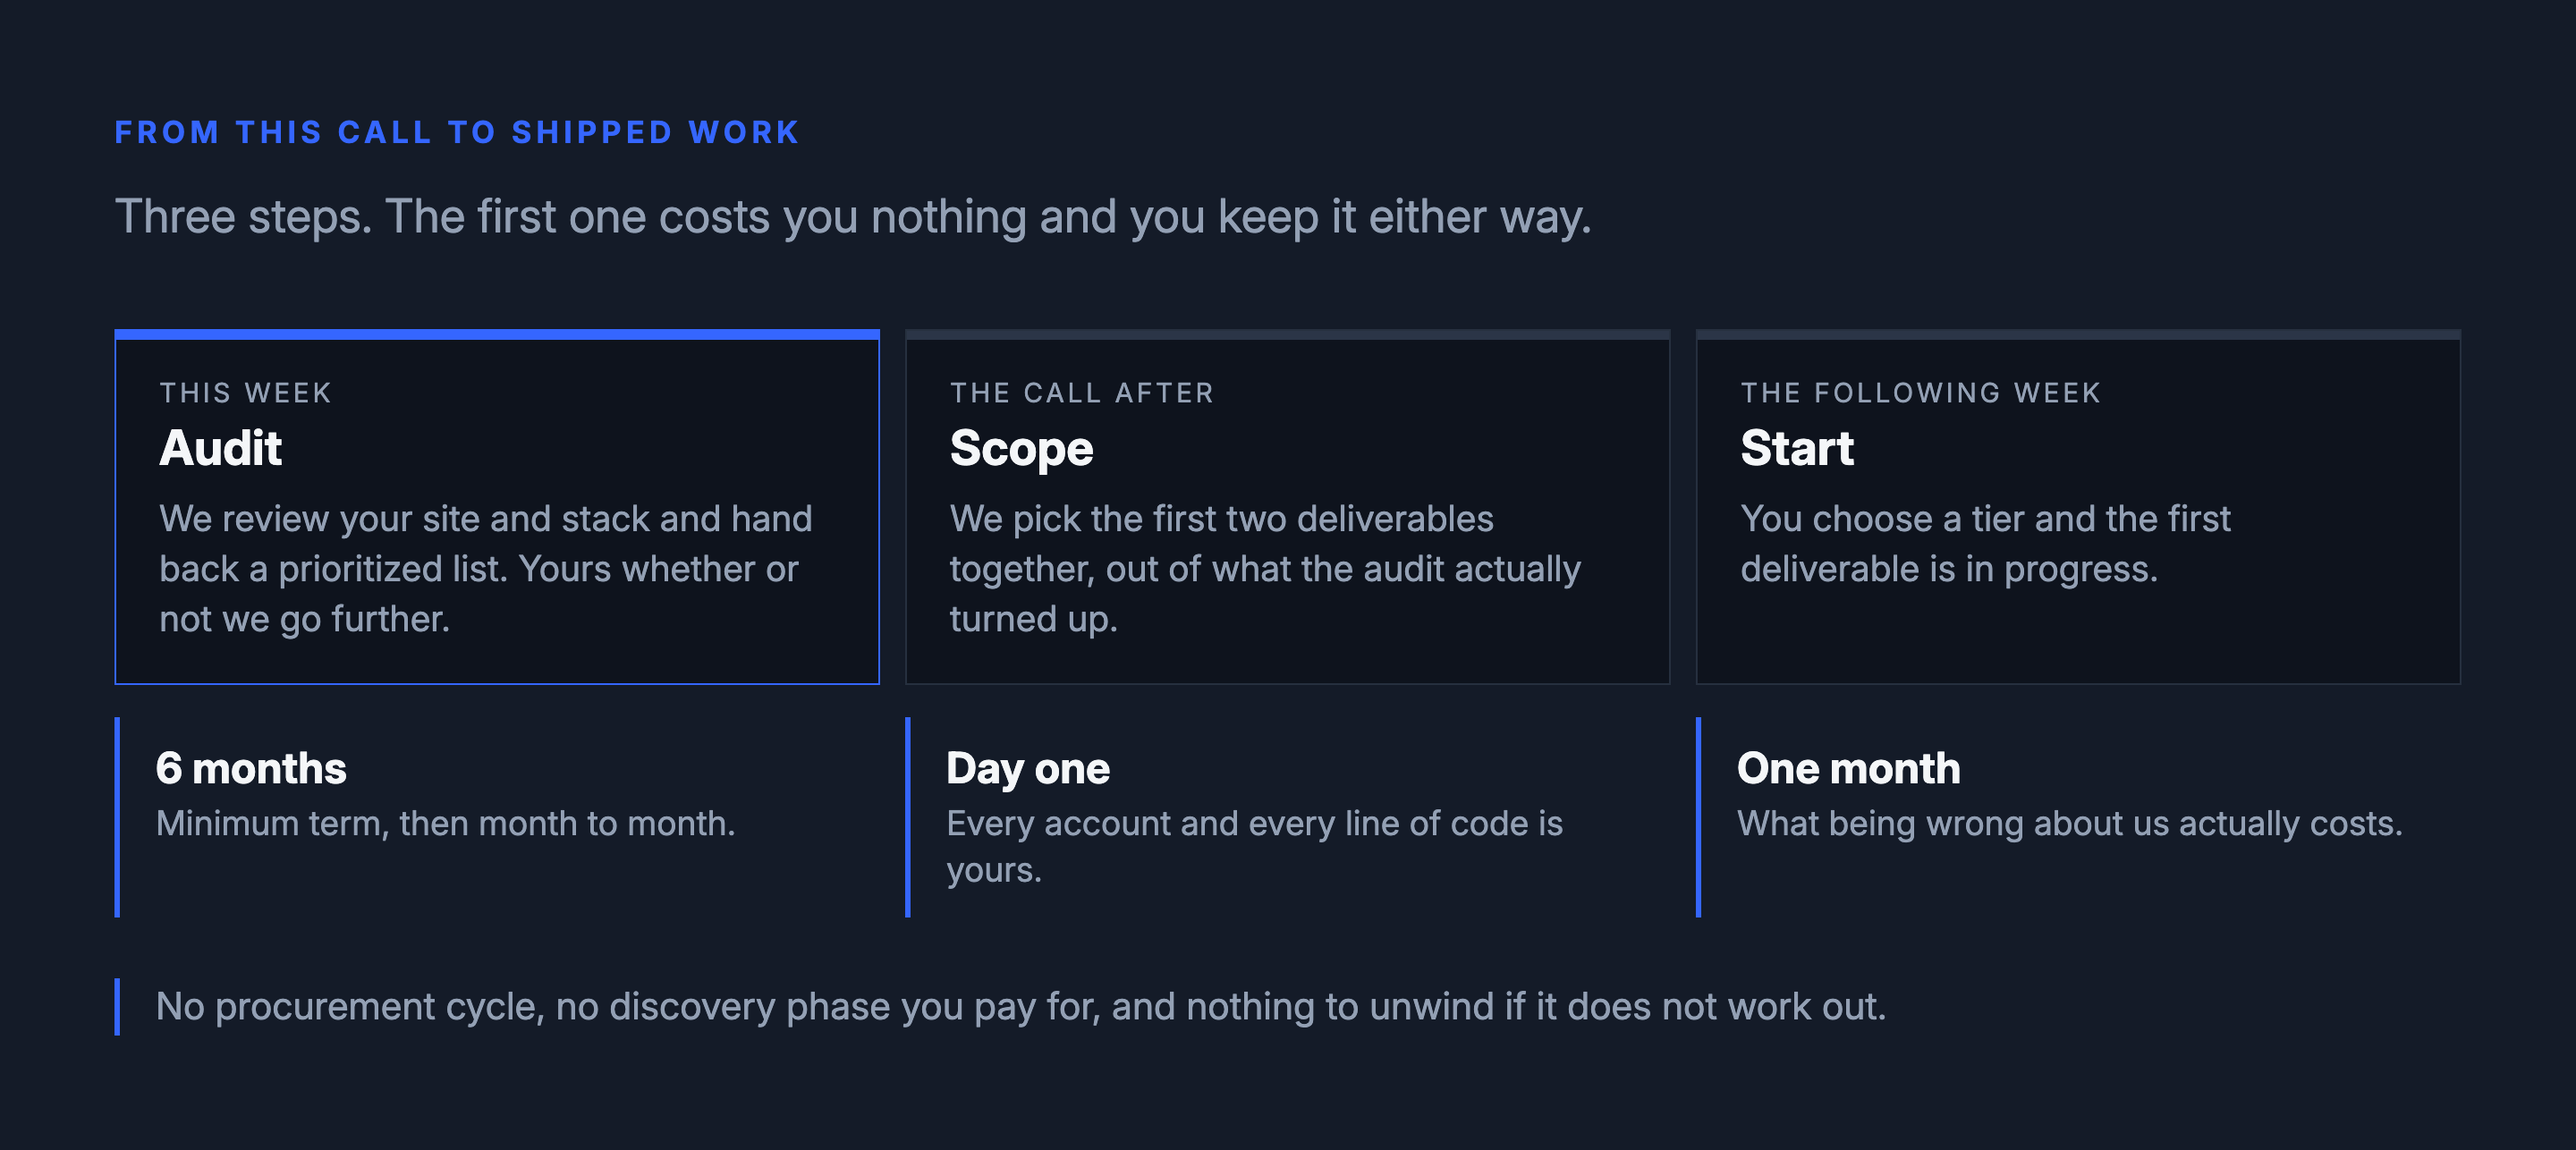
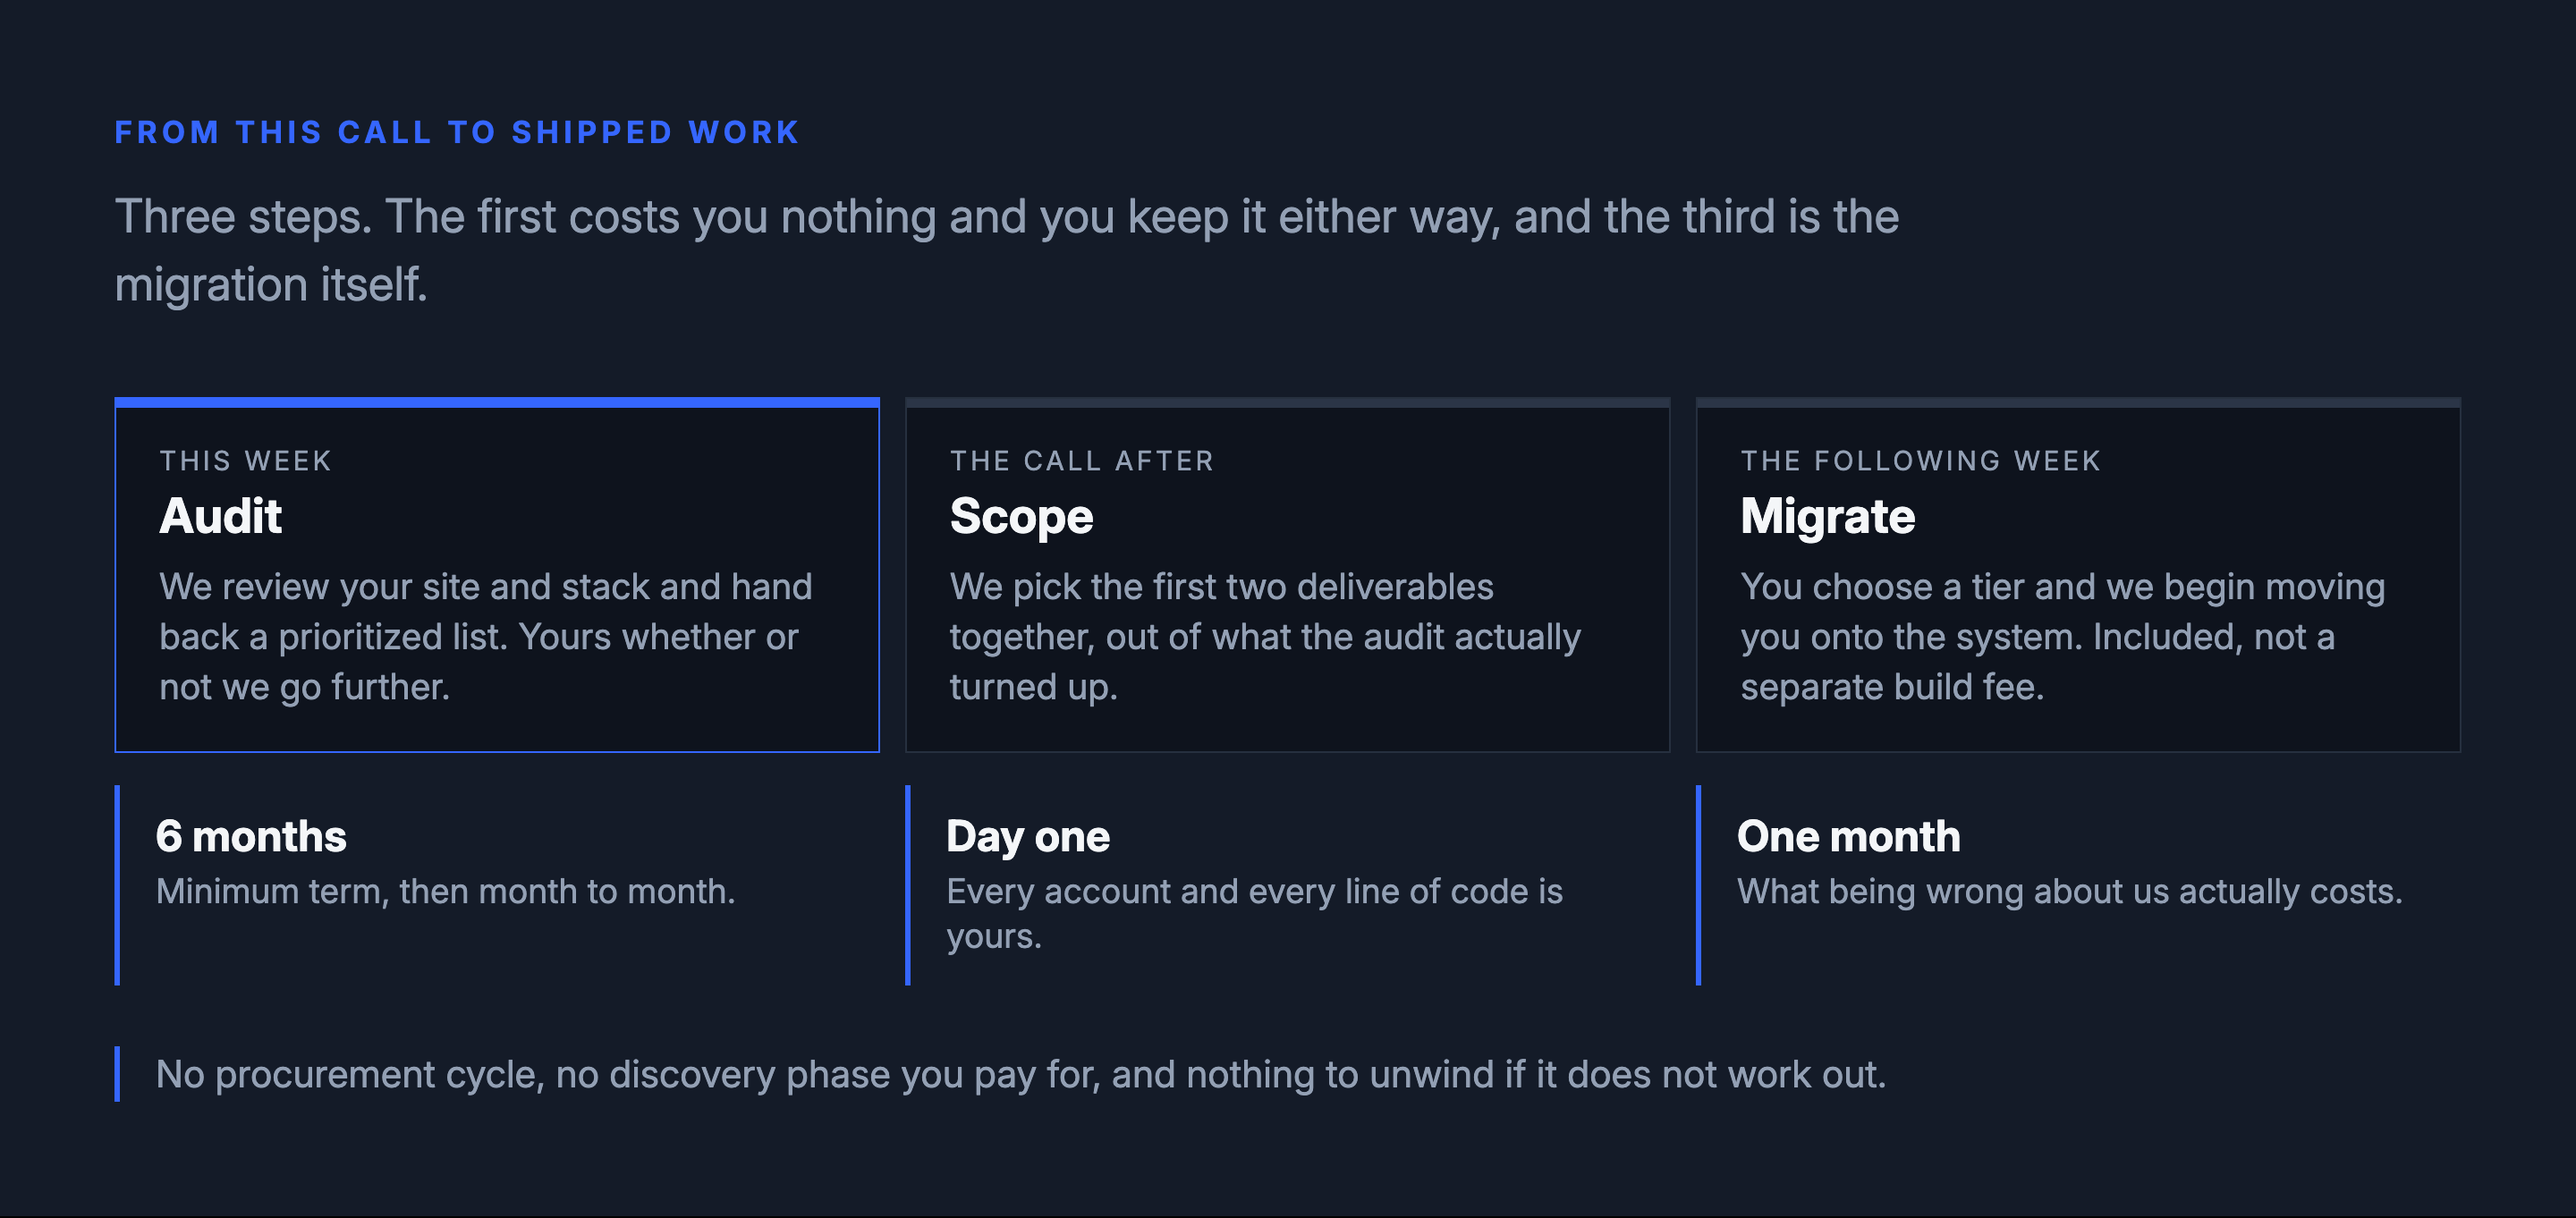
Deck: name the migration
Migration appeared once, inside the Foundation pricing card. It is the
first practical question a prospect has and a live objection, so it now
opens "How we solve this" as the first of three phases: migration, then
deliverables, then upkeep.

The closing sequence renames its third step from Start to Migrate, since
that is what starting actually is, and says it is included rather than a
separate build fee.

diff --git a/documents/design-system-images/diagrams/source.html b/documents/design-system-images/diagrams/source.html
@@ -248,7 +248,7 @@
 <!-- 8 ─────────────── how the engagement starts -->
 <div class="diagram" id="start">
   <div class="kicker">From this call to shipped work</div>
-  <div class="sub">Three steps. The first one costs you nothing and you keep it either way.</div>
+  <div class="sub">Three steps. The first costs you nothing and you keep it either way, and the third is the migration itself.</div>
 
   <div class="track">
     <div class="stepc on">
@@ -266,8 +266,8 @@
     <div class="stepc">
       <div class="bar"></div>
       <div class="when">The following week</div>
-      <div class="what">Start</div>
-      <div class="desc">You choose a tier and the first deliverable is in progress.</div>
+      <div class="what">Migrate</div>
+      <div class="desc">You choose a tier and we begin moving you onto the system. Included, not a separate build fee.</div>
     </div>
   </div>
 
